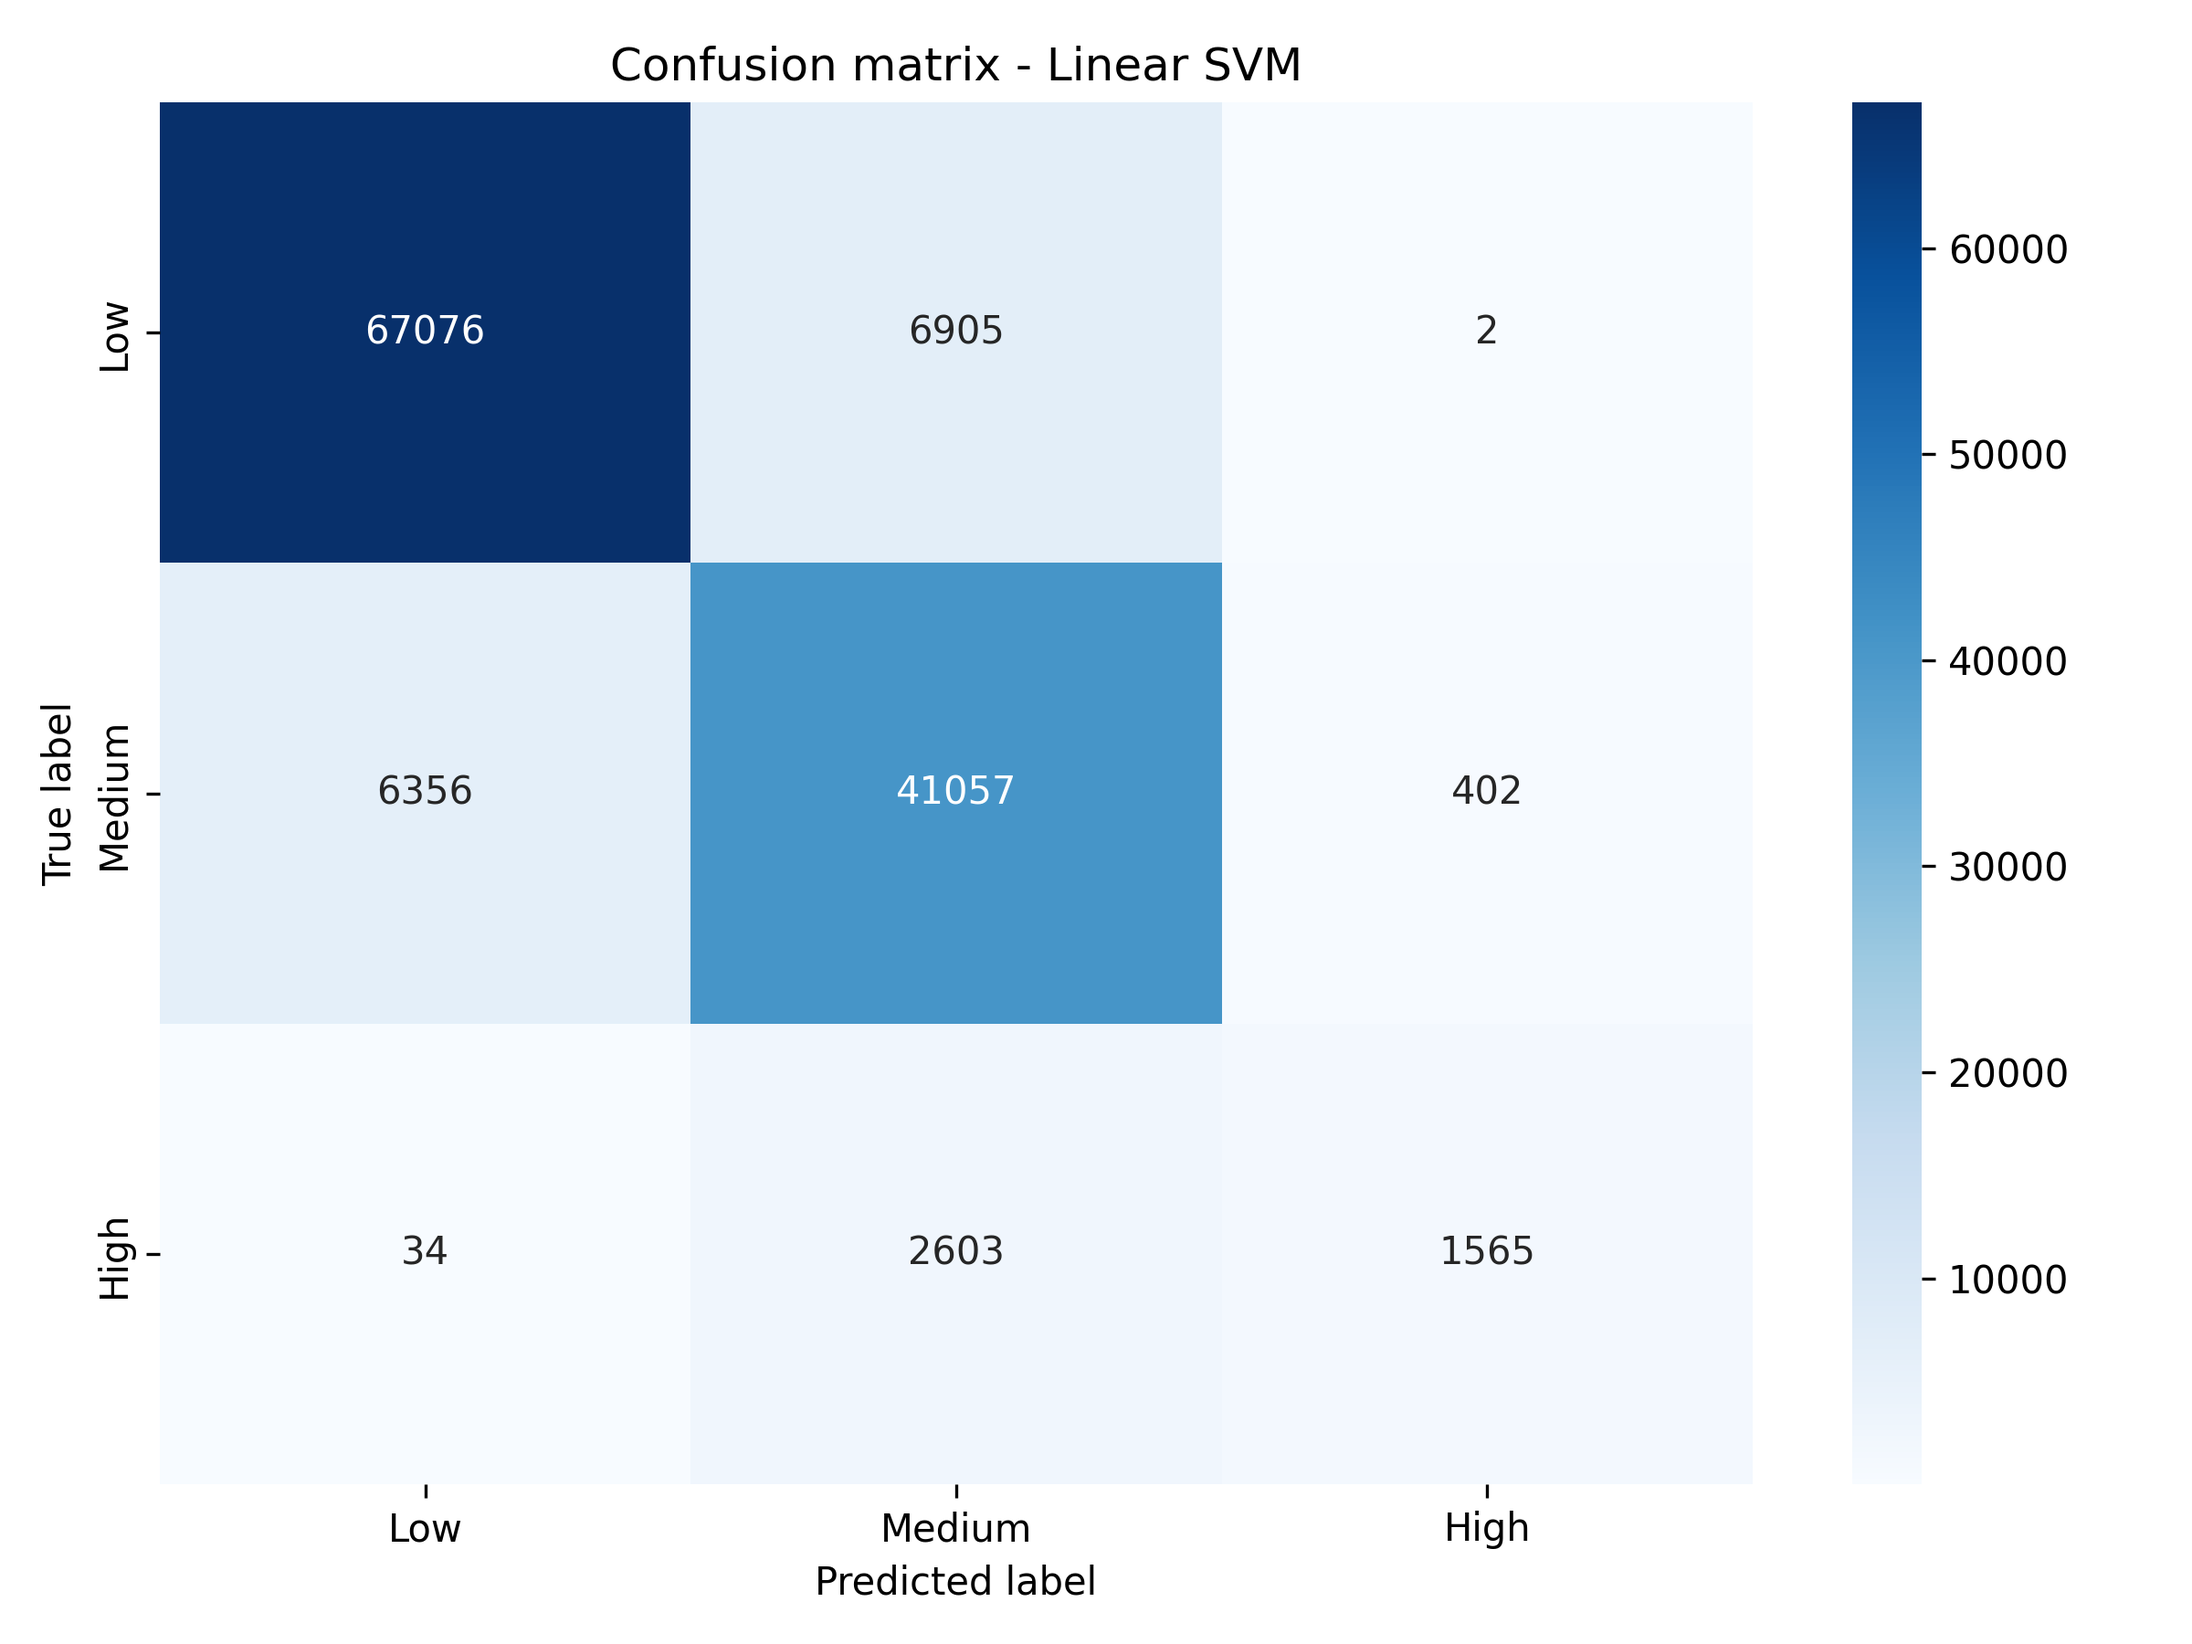
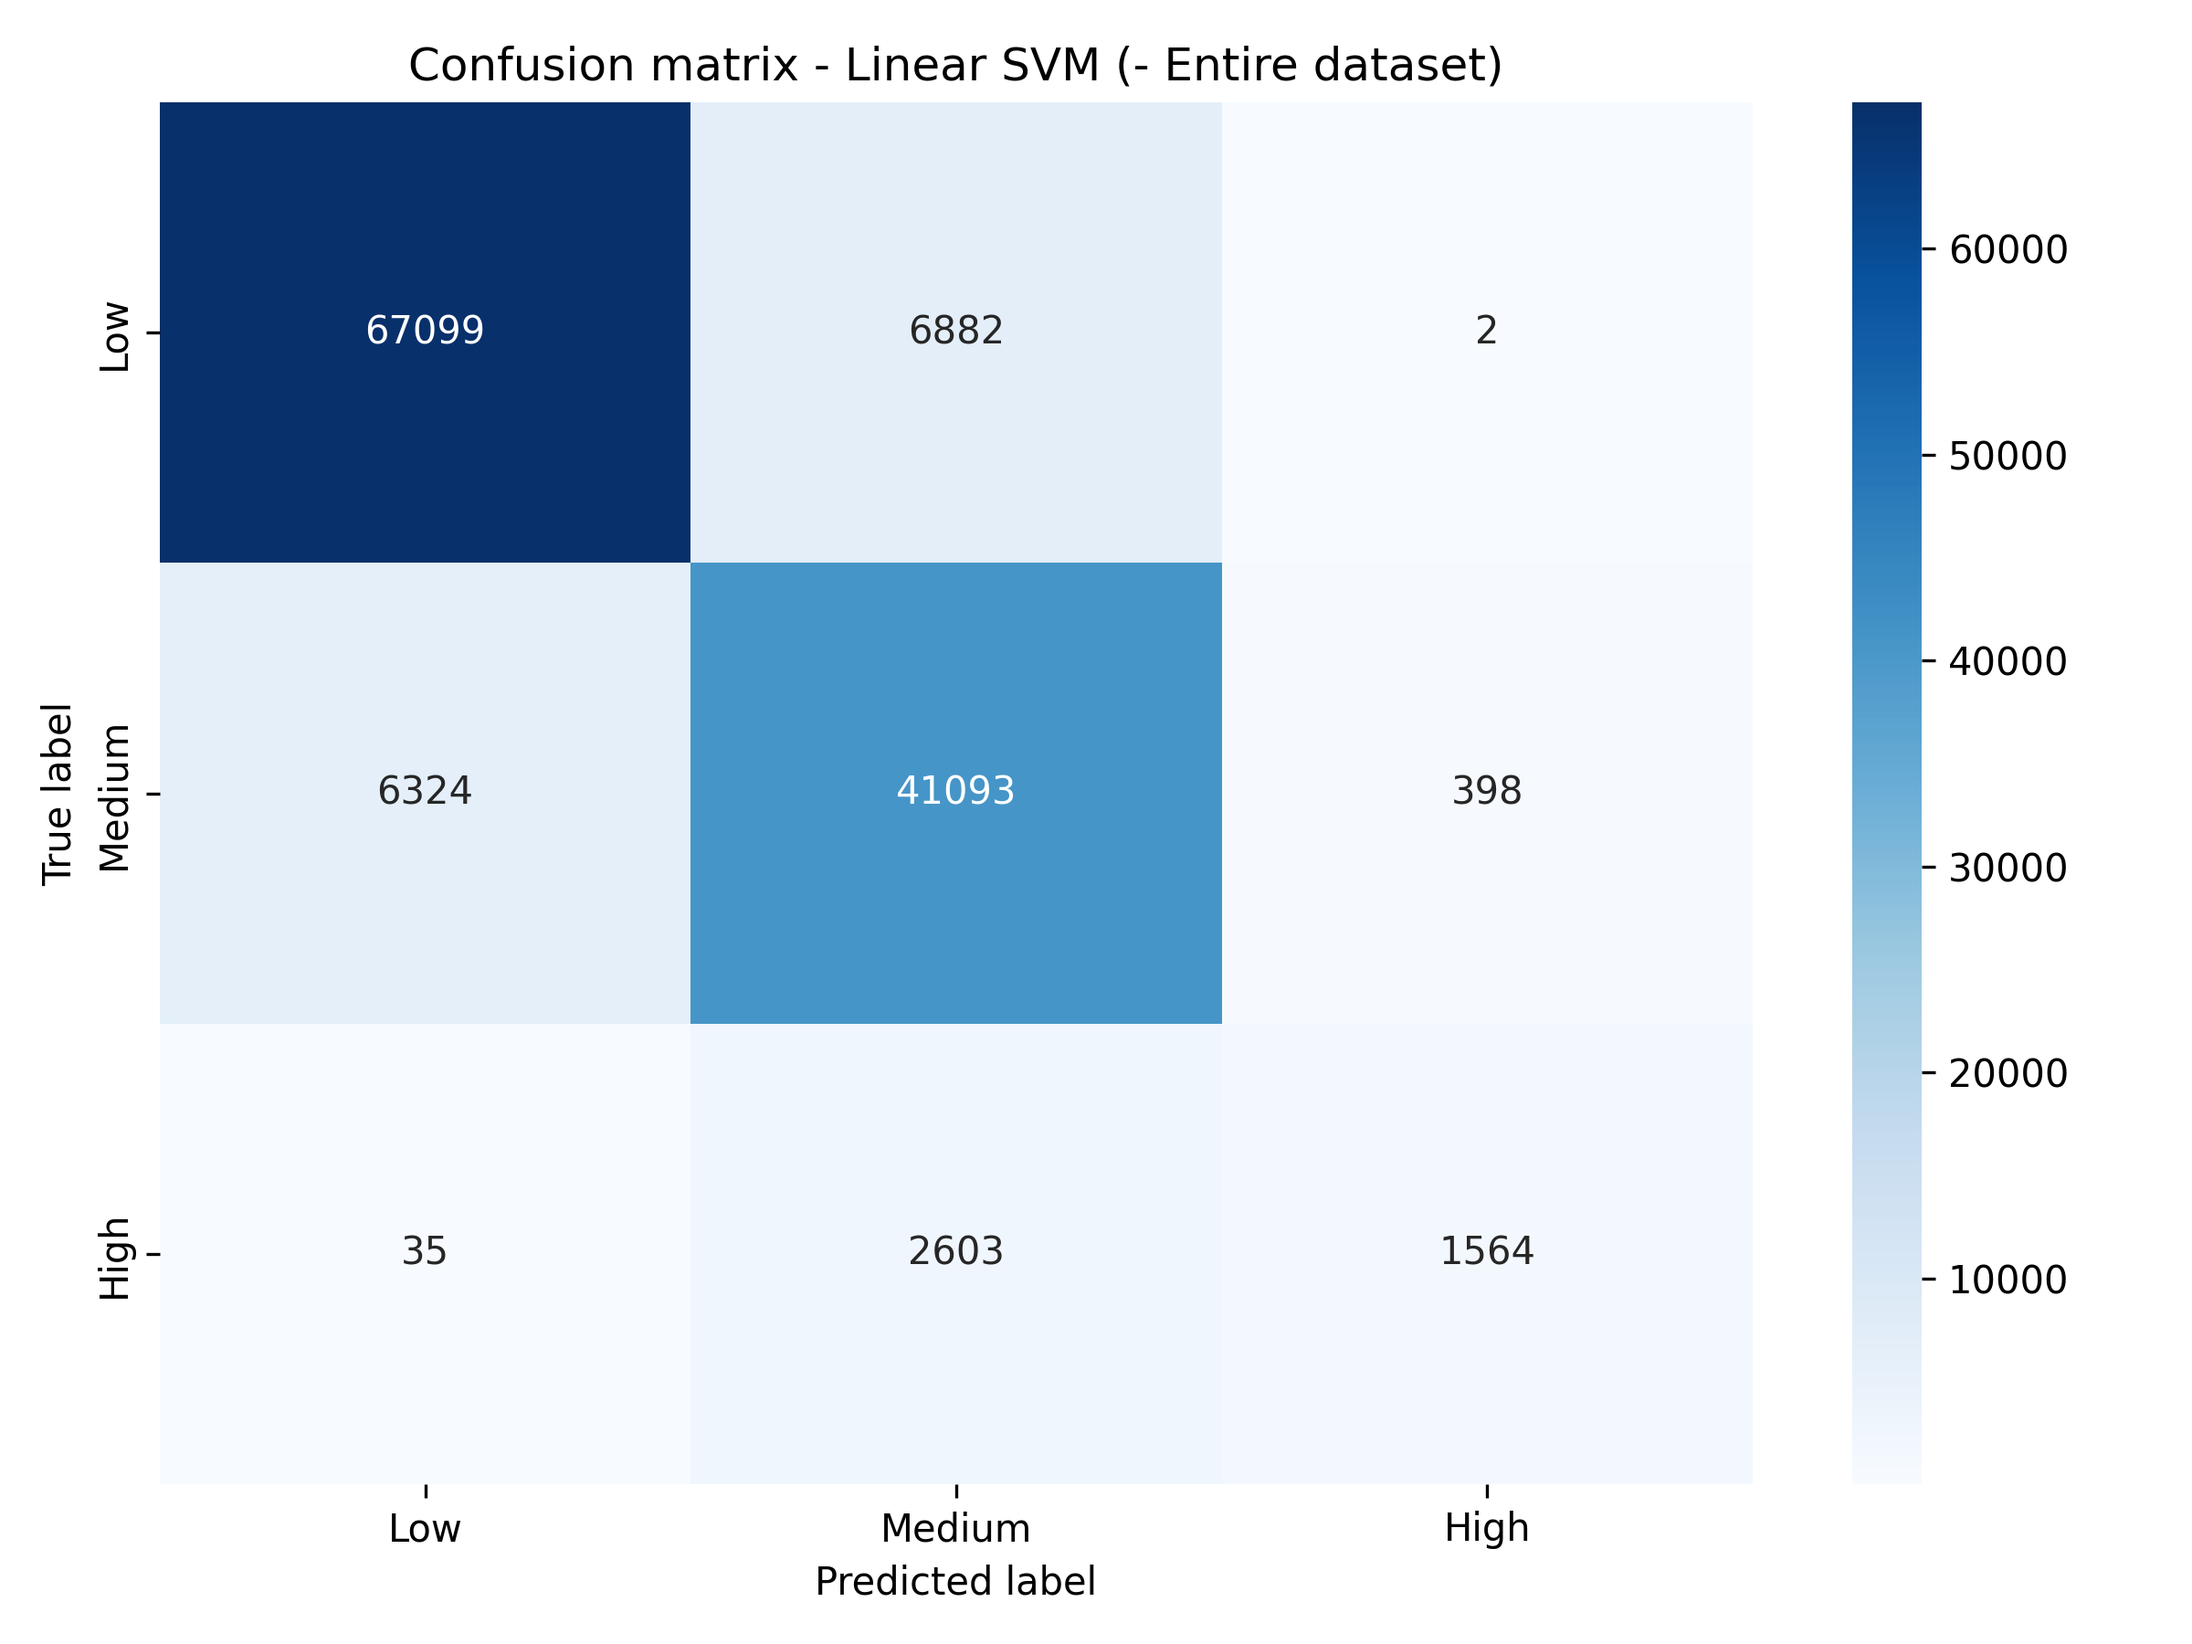
Improve preprocessing with feature extraction and new k parameters

diff --git a/src/data/preprocessing.py b/src/data/preprocessing.py
@@ -1,5 +1,4 @@
 from sklearn.compose import _column_transformer
-import collections
 import pandas as pd
 import numpy as np
 from sklearn.model_selection import train_test_split
@@ -7,7 +6,7 @@ from sklearn.preprocessing import StandardScaler, OneHotEncoder
 from sklearn.compose import ColumnTransformer
 from sklearn.pipeline import Pipeline
 
-def load_data(file_path, sample_size_per_class=35000):
+def load_data(file_path, sample_size_per_class):
     df = pd.read_csv(file_path)
 
     if 'id' in df.columns:
@@ -62,9 +61,10 @@ def get_pipeline_transformer():
     """
     numerical_cols = [
         'Soil_pH', 'Soil_Moisture', 'Organic_Carbon', 'Electrical_Conductivity', 
-        'Temperature_C', 'Humidity', 'Rainfall_mm', 'Sunlight_Hours', 
-        'Wind_Speed_kmh', 'Field_Area_hectare', 'Previous_Irrigation_mm',
-        'Total_water_input', 'Evaporation_proxy', 'Thermal_impact'
+        'Temperature_C', 'Humidity', 'Sunlight_Hours', 
+        'Wind_Speed_kmh', 'Field_Area_hectare',
+        'Total_water_input', 'Evaporation_proxy', 'Thermal_impact',
+        # 'Rainfall_mm', 'Previous_Irrigation_mm'
     ]
 
     categorical_cols = [

diff --git a/src/metrics/evaluation.py b/src/metrics/evaluation.py
@@ -40,7 +40,8 @@ def plot_save_confusion_matrix(y_test, y_pred, model_name="Model", output_dir="r
     sns.heatmap(cm, annot=True, fmt='d', cmap='Blues',
                 xticklabels=target_names, yticklabels=target_names)
 
-    plt.title(f"Confusion matrix - {model_name}")
+    suffix = "- Entire dataset" if big_data else None
+    plt.title(f"Confusion matrix - {model_name} ({suffix})")
     plt.ylabel("True label")
     plt.xlabel("Predicted label")
     plt.tight_layout()

diff --git a/main.py b/main.py
@@ -26,6 +26,9 @@ def main():
     print_log("=== PHASE 2: Split and Preprocessing ===")
     X_train, X_test, y_train, y_test = dataset_setup(X, y)
 
+    X_train = X_train.drop(columns=['Rainfall_mm', 'Previous_Irrigation_mm'])
+    X_test = X_test.drop(columns=['Rainfall_mm', 'Previous_Irrigation_mm'])
+
     transformer = get_pipeline_transformer()
     X_train_processed = transformer.fit_transform(X_train)
     X_test_processed = transformer.transform(X_test)

diff --git a/src/models/models.py b/src/models/models.py
@@ -8,7 +8,7 @@ def run_knn(X_train, y_train, bypass=False):
         return None, None
     knn = KNeighborsClassifier()
 
-    param_grid = {'n_neighbors': [3, 5, 7, 9, 11]}
+    param_grid = {'n_neighbors': [3, 5, 7, 9, 11, 31, 51, 101, 151, 200]}
 
     grid_search = GridSearchCV(knn, param_grid, cv=3, scoring='f1_macro', n_jobs=-1, verbose=3)
     grid_search.fit(X_train, y_train)
